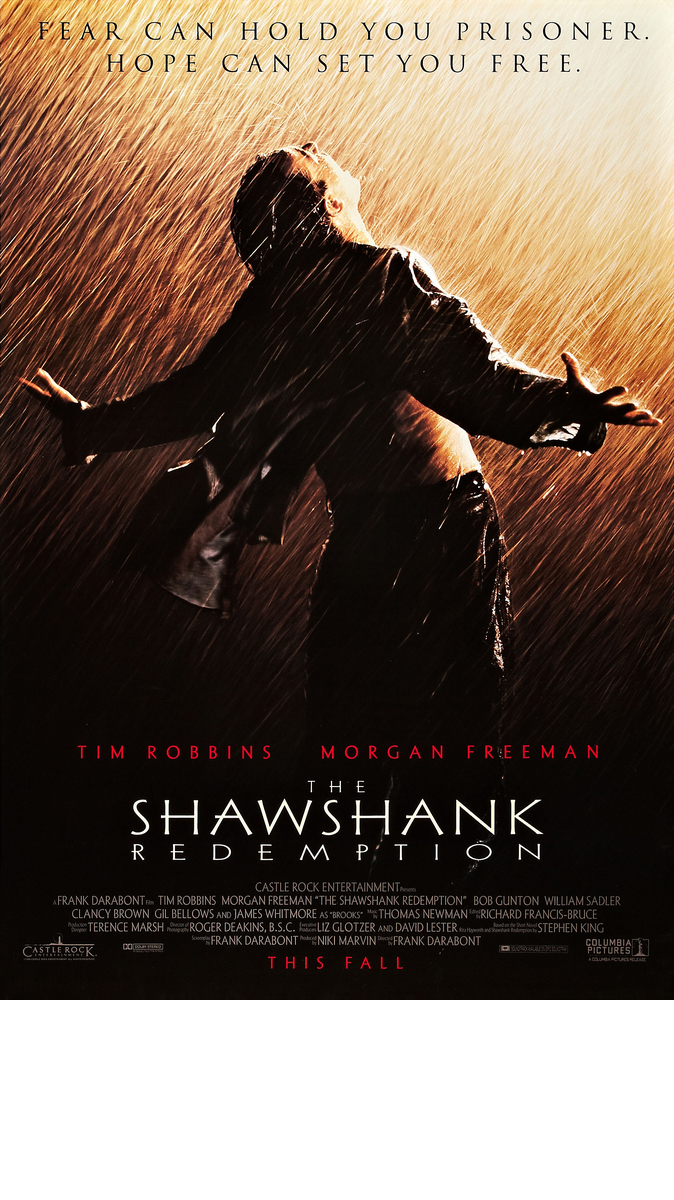
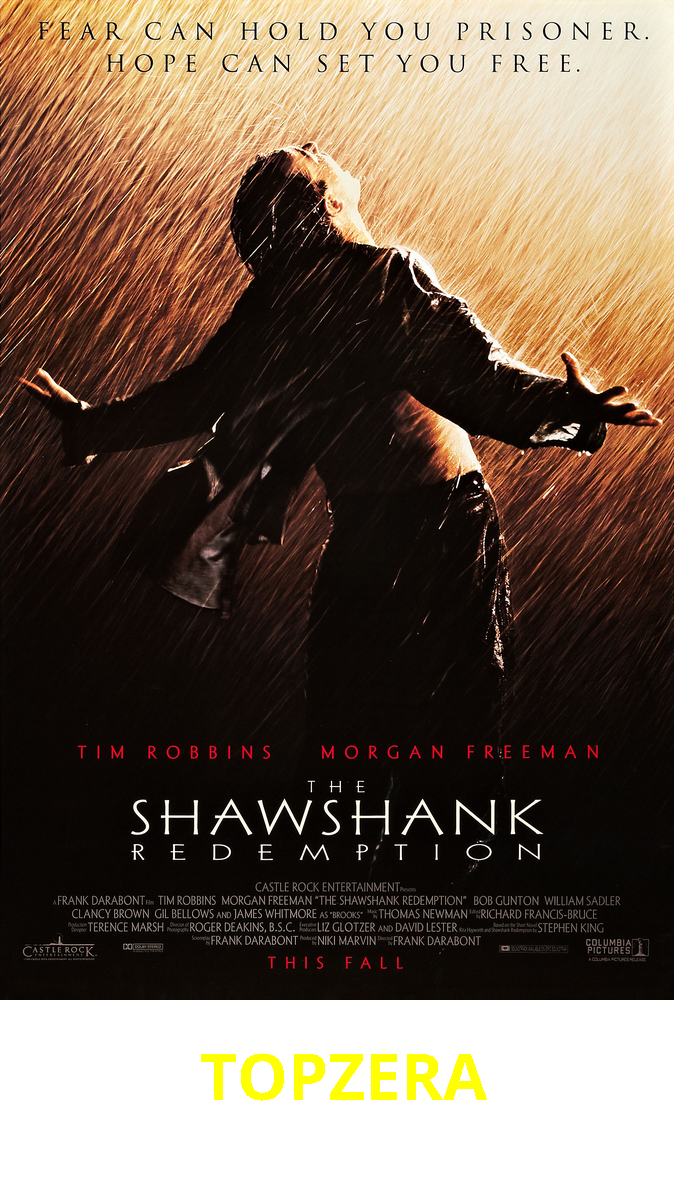
configure font

Changed region(s): [[0.3116, 0.8633, 0.7166, 0.925]]

diff --git a/src/StickerGenerator.java b/src/StickerGenerator.java
@@ -1,3 +1,5 @@
+import java.awt.Color;
+import java.awt.Font;
 import java.awt.Graphics2D;
 import java.awt.image.BufferedImage;
 import java.io.File;
@@ -20,8 +22,13 @@ public class StickerGenerator {
     Graphics2D graphics = (Graphics2D) newImage.getGraphics();
     graphics.drawImage(originalImage, 0, 0, null);
 
+    // Configurar a fonte
+    Font font = new Font(Font.SANS_SERIF, Font.BOLD, 64);
+    graphics.setColor(Color.YELLOW);
+    graphics.setFont(font);
+
     // Escrever uma frase na nova imagem
-    graphics.drawString("TOPZERA", 0, (int) (newHeight - (newHeight * 0.083)));
+    graphics.drawString("TOPZERA", 200, (int) (newHeight - (newHeight * 0.083)));
 
     // Escrever a nova imagem em um novo arquivo
     ImageIO.write(newImage, "png", new File("assets/output/sticker.png"));
